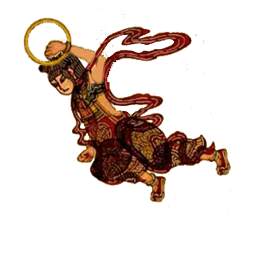
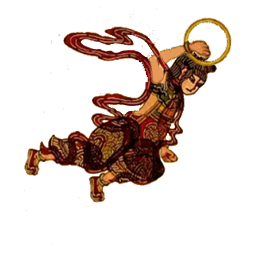
Supposedly better speed handling for bigger screens. Minor code optimizations.
Tests;
Better collision detection;
Next level of enemies;
Overall game optimizations
                     to be done.

diff --git a/index.html b/index.html
@@ -57,10 +57,9 @@
         .load(setup);
 
     let gameScene, gameOverScene, hero, hero_hit, state, message,
-        enemies = [], bullets = [], healthBar, score, lastHitButton,
-        hitAnimation_img = ["hit1_img", "hit2_img", "hit3_img"],
+        enemies = [], bullets = [], healthBar, score, lastHitButton = 2,
+        hitAnimation_img = ["hero_img", "hit1_img", "hit2_img", "hit3_img"],
         hitAnimation = [],
-        // customFieldHeight = Math.ceil(window.innerWidth / (4 / 3));
         customFieldHeight = window.innerWidth;
 
 
@@ -79,11 +78,18 @@
         gameScene.addChild(background);
 
 // Sprites
+        for (let i = 0; i < 4; i++) {
+            let texture = PIXI.Texture.fromImage(hitAnimation_img[i]);
+            hitAnimation.push(texture);
+        }
+
+
         hero = new Sprite(resources.hero_img.texture);
         hero.position.set(window.innerWidth / 2, customFieldHeight / 2);
         hero.interactive = true;
         hero.buttonMode = true;
         hero.anchor.set(0.5);
+
         //     .on('mousedown', onDragStart)
         //     .on('mouseup', onDragEnd)
         //     .on('mouseupoutside', onDragEnd)
@@ -99,39 +105,35 @@
         hero.scale.set(cust_ratio(hero, 7));
         gameScene.addChild(hero);
         //Hero animation
-        for (let i = 0; i < 3; i++) {
-            let texture = PIXI.Texture.fromImage(hitAnimation_img[i]);
-            hitAnimation.push(texture);
-        }
         hero_hit = new PIXI.extras.AnimatedSprite(hitAnimation);
         hero_hit.anchor.set(0.5);
         hero_hit.scale.set(cust_ratio(hero_hit, 7));
-        hero_hit.scale.x *= -1;
         hero_hit.interactive = true;
         hero_hit.visible = false;
         // hero_hit.loop = false;
 
-        hero_hit.animationSpeed = 0.30;
+        hero_hit.animationSpeed = 0.40;
         gameScene.addChild(hero_hit);
 
-        //Enemies
-        let numberOfEnemies = 10,
+//Enemies
+        let numberOfEnemies = 15,
             spacing = hero.height + 10,
             yOffset = hero.height / 4,
             speed = 2,
             direction = 1;
-        //Generating enemies
+        //Generating and setting up enemies
         for (let i = 1; i <= numberOfEnemies; i++) {
             let enemy = new Sprite(resources.enemy1_img.texture);
             enemy.anchor.set(0.5);
             enemy.scale.set(cust_ratio(enemy, 8));
             // enemy.rotation = 3.14159216 / 4 * i;
-            let x = randomInt(30, window.innerWidth);
-            let y = spacing * i + yOffset;
+            let x = (enemy.width * i > window.innerWidth ? enemy.width * i - window.innerWidth : enemy.width * i);
+            let y = (spacing * i + yOffset > customFieldHeight ? spacing * i + yOffset - customFieldHeight : spacing * i + yOffset);
 
             enemy.x = x;
             enemy.y = y;
-            enemy.vx = speed * direction;
+            enemy.vx = speed * (customFieldHeight / 600 > 1 ? 1.5 * customFieldHeight / 600 : 1) * direction * (randomInt(1, 100) % 2 === 0 ? 0 : 1);
+            enemy.vy = speed * (customFieldHeight / 600 > 1 ? 1.5 * customFieldHeight / 600 : 1) * direction;
             direction *= -1;
 
             enemies.push(enemy);
@@ -203,7 +205,7 @@
             down = keyboard(40);
 
         left.press = () => {
-            hero.vx = -5;
+            hero.vx = -5 * (customFieldHeight / 600 > 1 ? 1.5 * customFieldHeight / 600 : 1);
             hero.vy = 0;
         };
         left.release = () => {
@@ -214,7 +216,7 @@
 
         //Up
         up.press = () => {
-            hero.vy = -5;
+            hero.vy = -5 * (customFieldHeight / 600 > 1 ? 1.5 * customFieldHeight / 600 : 1);
             hero.vx = 0;
         };
         up.release = () => {
@@ -225,7 +227,7 @@
 
         //Right
         right.press = () => {
-            hero.vx = 5;
+            hero.vx = 5 * (customFieldHeight / 600 > 1 ? 1.5 * customFieldHeight / 600 : 1);
             hero.vy = 0;
         };
         right.release = () => {
@@ -236,7 +238,7 @@
 
         //Down
         down.press = () => {
-            hero.vy = 5;
+            hero.vy = 5 * (customFieldHeight / 600 > 1 ? 1.5 * customFieldHeight / 600 : 1);
             hero.vx = 0;
         };
         down.release = () => {
@@ -255,9 +257,10 @@
     }
 
     function play(delta) {
-
+        //moving hero
         hero.y += hero.vy;
         hero.x += hero.vx;
+
         contain(hero, {
             x: hero.width / 2,
             y: hero.height / 2,
@@ -267,8 +270,10 @@
 
         let heroHit = false;
 
+        //Enemies movements handling
         enemies.forEach(function (enemy) {
             enemy.x += enemy.vx;
+            enemy.y += enemy.vy;
 
             let enemyHitsWall = contain(enemy, {
                 x: enemy.width / 3,
@@ -281,11 +286,15 @@
                 enemy.vx *= -1;
                 enemy.scale.x *= -1;
             }
+            if (enemyHitsWall === "top" || enemyHitsWall === "bottom") {
+                enemy.vy = (enemy.vy < 0 ? randomInt(5, -enemy.vy * 10) / 10 : randomInt(-enemy.vy * 10, 5) / 10);
+            }
 
             if (collisionTest(hero, enemy)) {
                 heroHit = true;
             }
         });
+        //Health bar
         if (heroHit) {
             hero.alpha = 0.5;
             //Reduce the width of the health bar's inner rectangle by 1 pixel
@@ -306,6 +315,8 @@
 
             state = end;
         }
+
+        //Bullets handling
         bullets.forEach(function (bullet, bullet_index) {
 
             bullet.x += bullet.vx;
@@ -442,8 +453,8 @@
             this.alpha = 0.5;
 
             rotating_hero(hero, direction);
-            hero.vx = 5 * (direction % 2 === 0 ? 1 : 0) * (direction === 0 ? -1 : 1);
-            hero.vy = 5 * (direction % 2 === 1 ? 1 : 0) * (direction === 3 ? 1 : -1);
+            hero.vx = 5 * (customFieldHeight / 600 > 1 ? 1.5 * customFieldHeight / 600 : 1) * (direction % 2 === 0 ? 1 : 0) * (direction === 0 ? -1 : 1);
+            hero.vy = 5 * (customFieldHeight / 600 > 1 ? 1.5 * customFieldHeight / 600 : 1) * (direction % 2 === 1 ? 1 : 0) * (direction === 3 ? 1 : -1);
             lastHitButton = direction;
         }
 
@@ -497,12 +508,13 @@
             bullets.push(bullet);
             gameScene.addChild(bullet);
             hero_hit.position.set(hero.x, hero.y);
-            hero_hit.scale.x = hero.scale.x * (-1);
+            hero_hit.scale.x = hero.scale.x;
             hero_hit.rotation = hero.rotation;
             hero.visible = false;
             hero_hit.visible = true;
 
             hero_hit.play();
+
 
         }
 
@@ -510,9 +522,11 @@
             this.isdown = false;
             if (this.isOver) {
                 this.alpha = 0.5;
+
             }
             else {
                 this.alpha = 1;
+                hero_hit.stop();
                 hero_hit.visible = 0;
                 hero.visible = 1;
 
